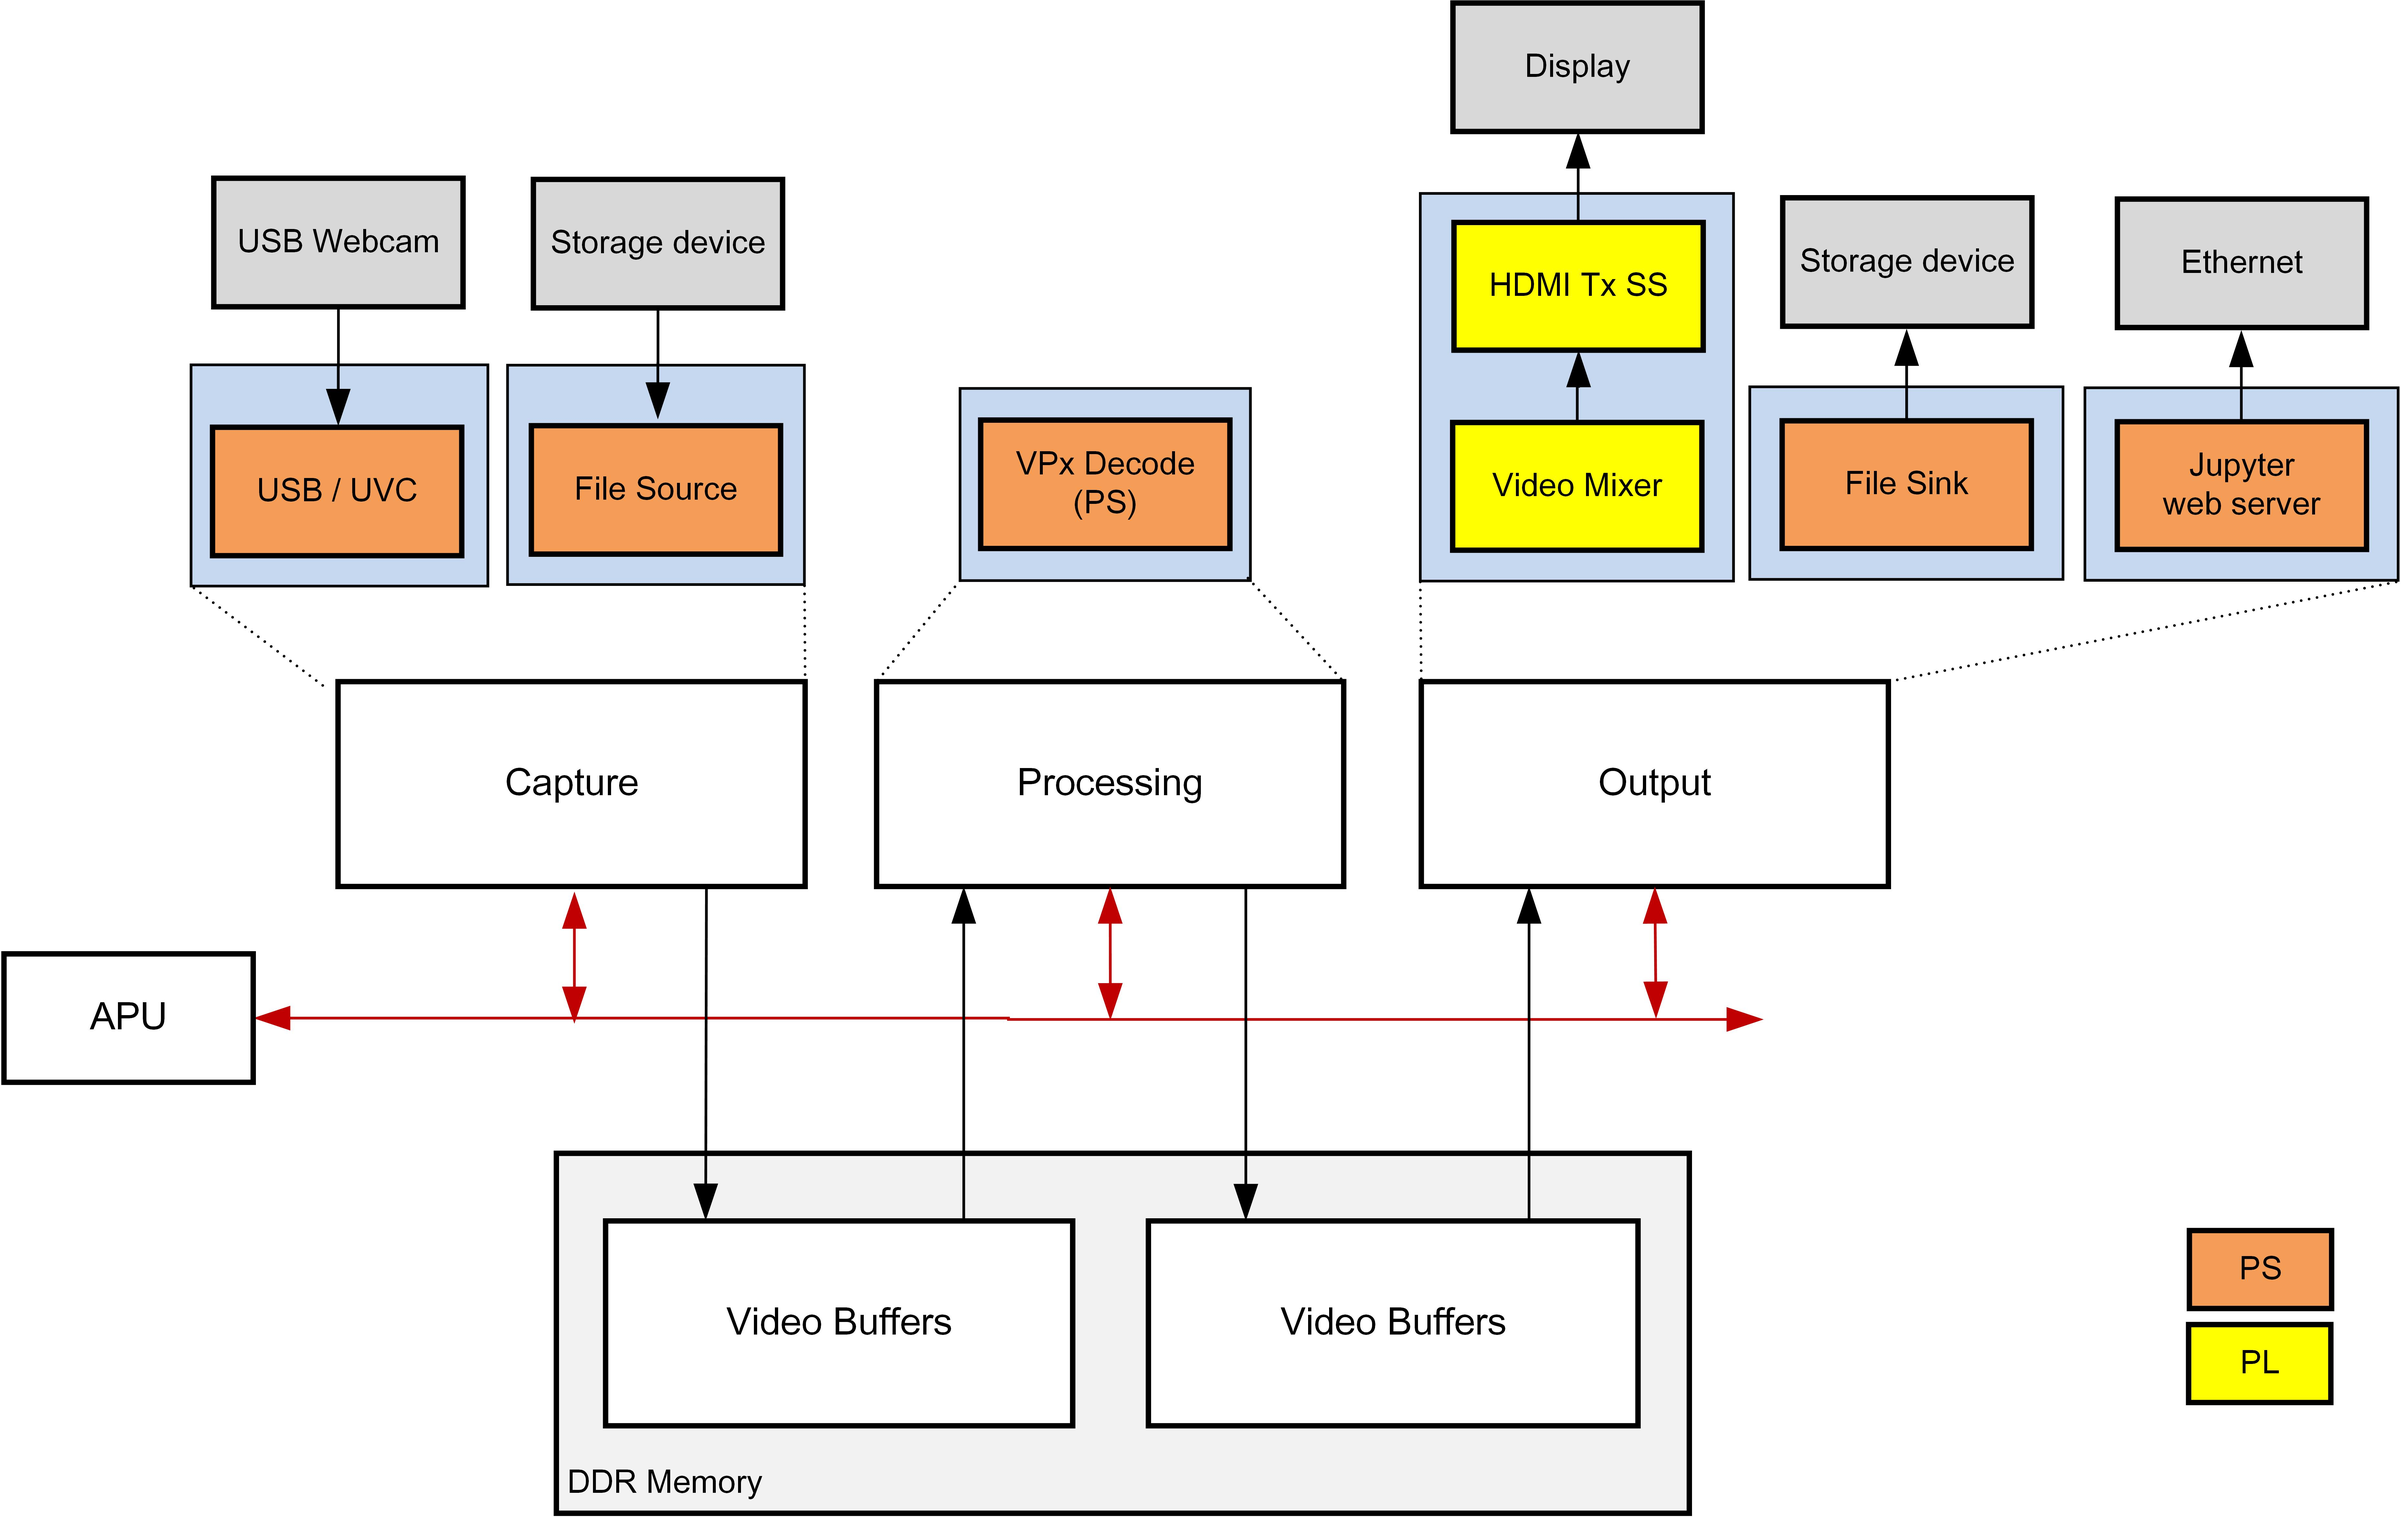
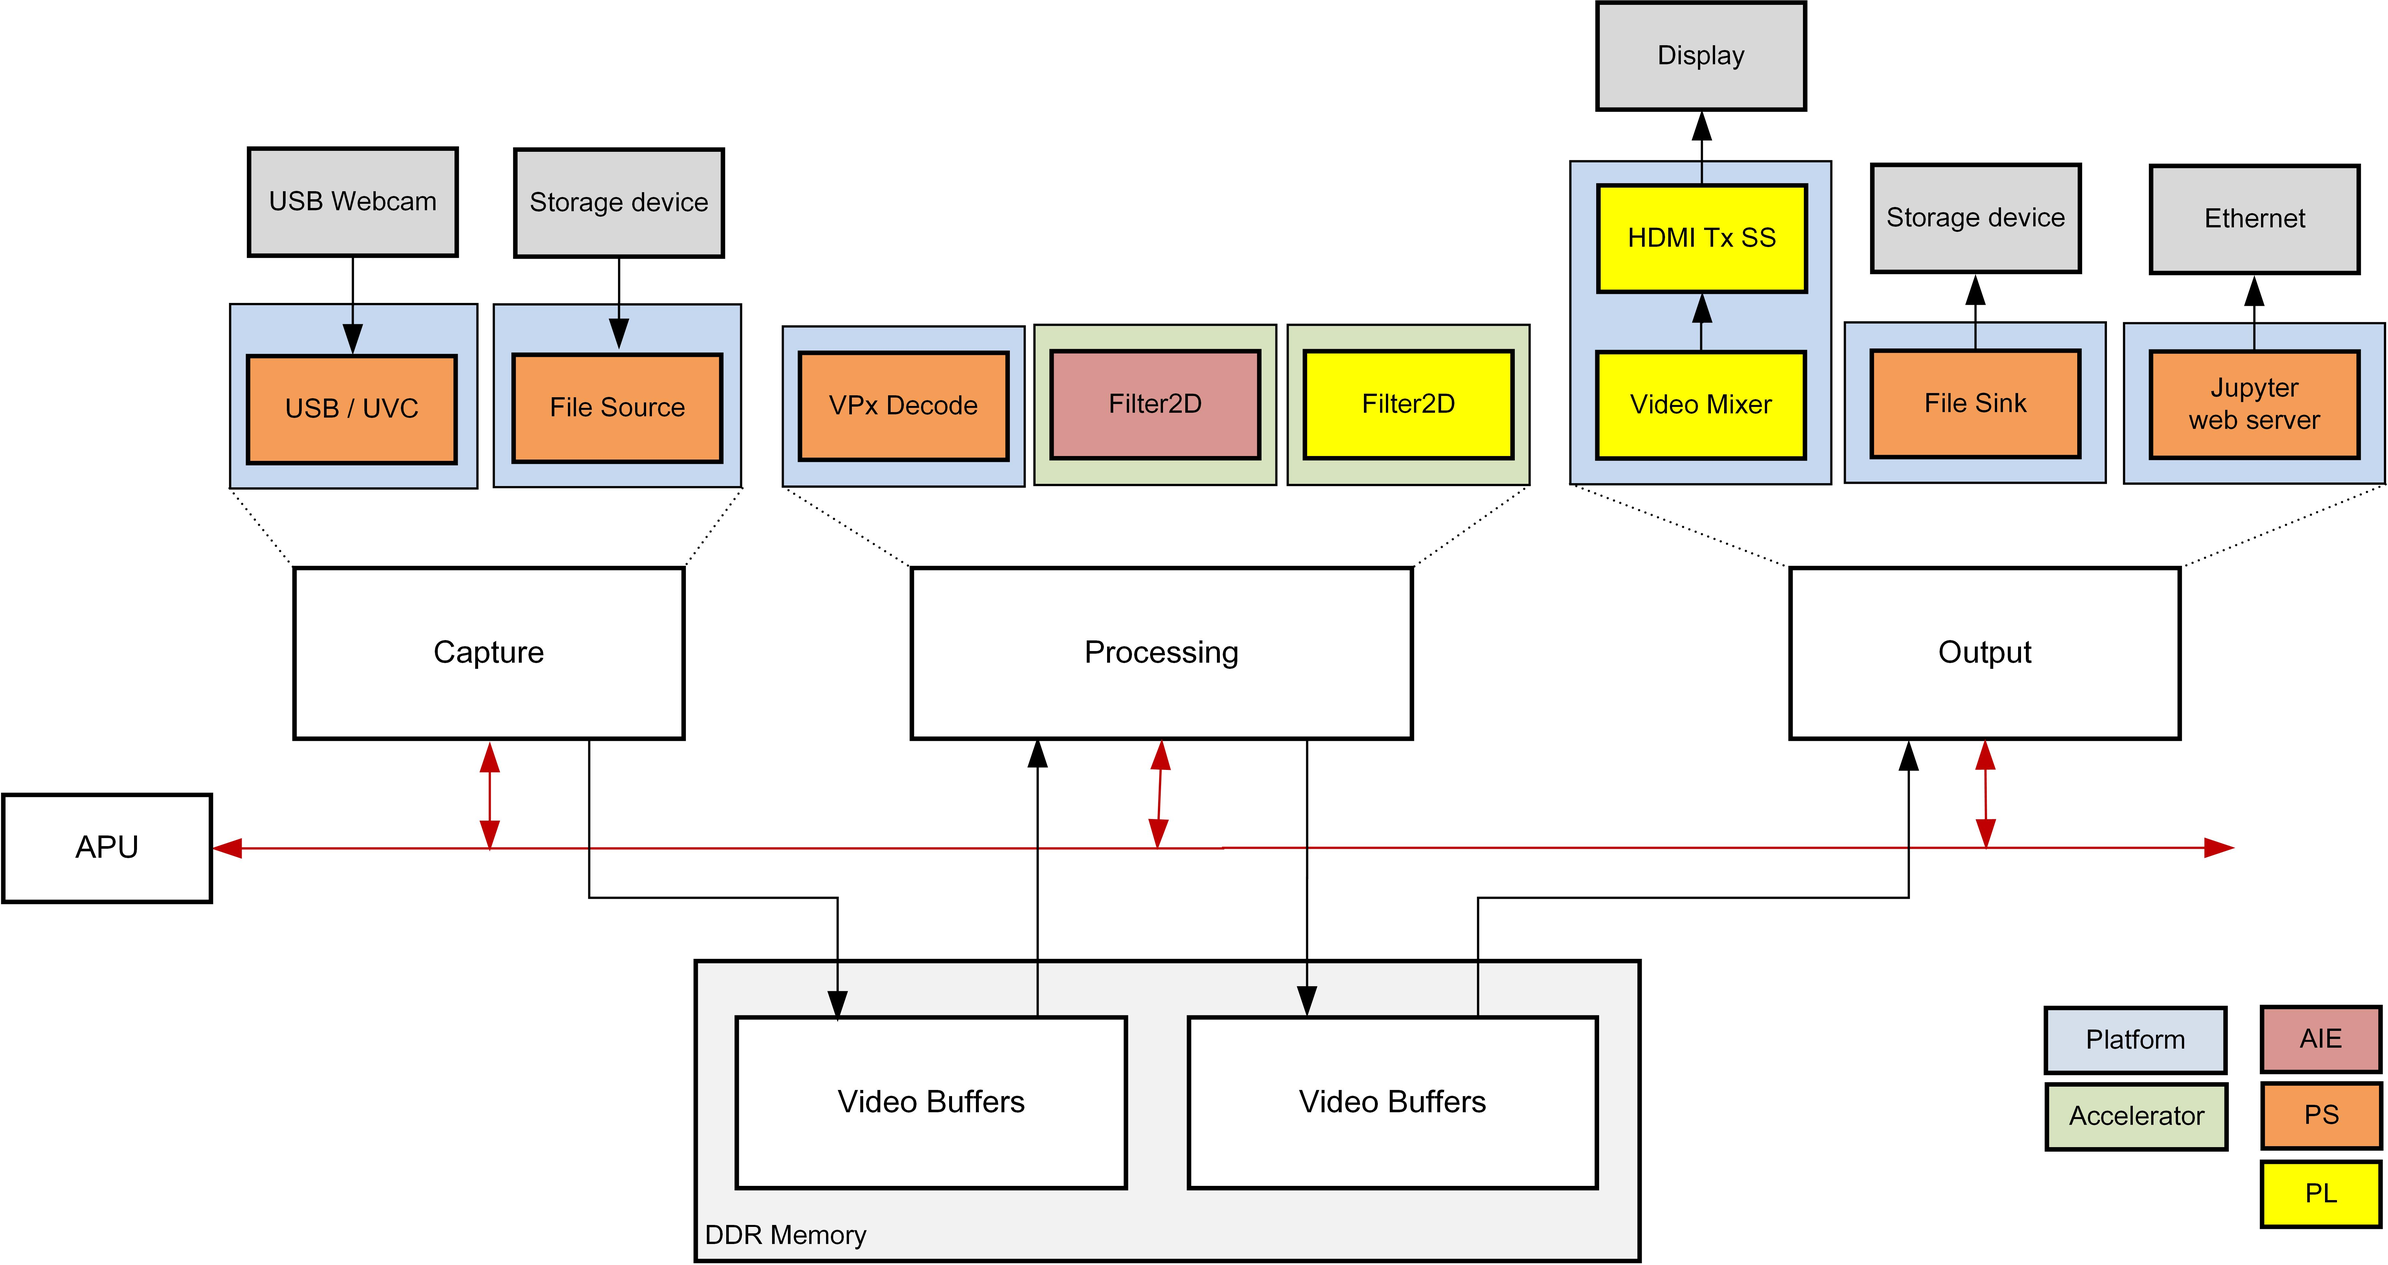
docs: Update introduction for newly added features
Update introduction chapter based on newly added features. Update introduction
text, add filter2d PL and AIE, update SW stack, update figures, and update
directory structure.

diff --git a/project-spec/meta-base-trd/recipes-apps/base-trd/base-trd/docs/source/intro.rst b/project-spec/meta-base-trd/recipes-apps/base-trd/base-trd/docs/source/intro.rst
@@ -1,12 +1,13 @@
 Introduction
 ============
 
-The Versal Base TRD consists of a series of platforms and jupyter notebooks to
-demonstrate various aspects of the design. A platform is a Vivado design with a
-pre-instantiated set of I/O interfaces and a corresponding PetaLinux BSP and
-image that includes the required kernel drivers and user-space libraries to
-exercise those interfaces. The reference design currently supports the VCK190
-evaluation board.
+The Versal Base TRD consists of a series of platforms, accelerators and Jupyter
+notebooks to demonstrate various aspects of the design. A platform is a Vivado
+design with a pre-instantiated set of I/O interfaces and a corresponding
+PetaLinux BSP and image that includes the required kernel drivers and user-space
+libraries to exercise those interfaces. Accelerators are mapped to FPGA logic
+resources and/or AI Engine cores and stitched into the platform using the Vitis
+toolchain. The reference design currently supports the VCK190 evaluation board.
 
 Platforms
 ---------
@@ -25,6 +26,10 @@ The following is a list of supported platforms including key I/O interfaces:
 
     * VP9 decode and demux
 
+    * 2D Filter (PL)
+
+    * 2D Filter (AIE)
+
   * Sinks:
 
     * HDMI Tx + video mixer display pipeline
@@ -32,9 +37,8 @@ The following is a list of supported platforms including key I/O interfaces:
     * Application sink into jupyter notebook display
 
 .. image:: images/system-bd.jpg
-    :width: 1000px
-    :align: center
-    :alt: System Design Block Diagram
+   :width: 1200px
+   :alt: System Design Block Diagram
 
 Software Stack
 --------------
@@ -47,18 +51,19 @@ The main software frameworks used in this reference design are:
 
 * V4L2 kernel subsystem and drivers for video capture devices
 
+* Xilinx run-time (XRT) and Xilinx OpenCL for acceleration kernels
+
 * DRM/KMS kernel subsystem and drivers for display devices
 
 .. image:: images/sw-stack.jpg
-    :width: 550px
-    :align: center
-    :alt: Software Stack Overview
+   :width: 700px
+   :alt: Software Stack Overview
 
 Design File Hierarchy
 ---------------------
 
 The reference design zip file can be downloaded from
-https://www.xilinx.com/member/forms/download/xef.html?filename=vck190_base_trd_platform1_2019.2_v0.1.1.zip
+https://www.xilinx.com/member/forms/download/xef.html?filename=vck190_base_trd_platform1_2019.2_v0.2.zip
 
 It has the following contents:
 
@@ -70,29 +75,43 @@ It has the following contents:
 
 * Vivado hardware design project
 
+* Vitis platform
+
+* Vitis accelerator projects
+
 * README file
 
 * Design sources zip file
 
 * Licenses zip file
 
-The design file hierarchy is shown below::
+The design file hierarchy is shown below:
 
- vck190_base_trd_platform1_2019.2_v0.1.1
- ├── docs
- │   ├── doctrees
- │   ├── html
- │   └── index.html
- ├── licenses.zip
- ├── petalinux
- │   └── xilinx-vck190-qspi-base-trd-2019.2-v0.1.1.bsp
- ├── README.txt
- ├── sdcard
- │   └── sdcard.img.zip
- ├── sources.zip
- └── vivado
-     ├── scripts
-     └── xdc
+.. code-block::
+
+   vck190_base_trd_platform1_2019.2_v0.2
+   ├── accelerators
+   │   ├── examples
+   │   │   └── filter2d
+   │   └── libraries
+   │       └── xf_opencv
+   ├── docs
+   │   ├── doctrees
+   │   ├── html
+   │   └── index.html
+   ├── licenses.zip
+   ├── petalinux
+   │   └── xilinx-vck190-qspi-base-trd-2019.2-v0.2.bsp
+   ├── platform
+   │   ├── pfm.tcl
+   │   └── vck190_base_trd_platform1
+   ├── README.txt
+   ├── sdcard
+   │   └── sdcard.img.zip
+   ├── sources.zip
+   └── vivado
+       ├── scripts
+       └── xdc
 
 Licenses
 --------
